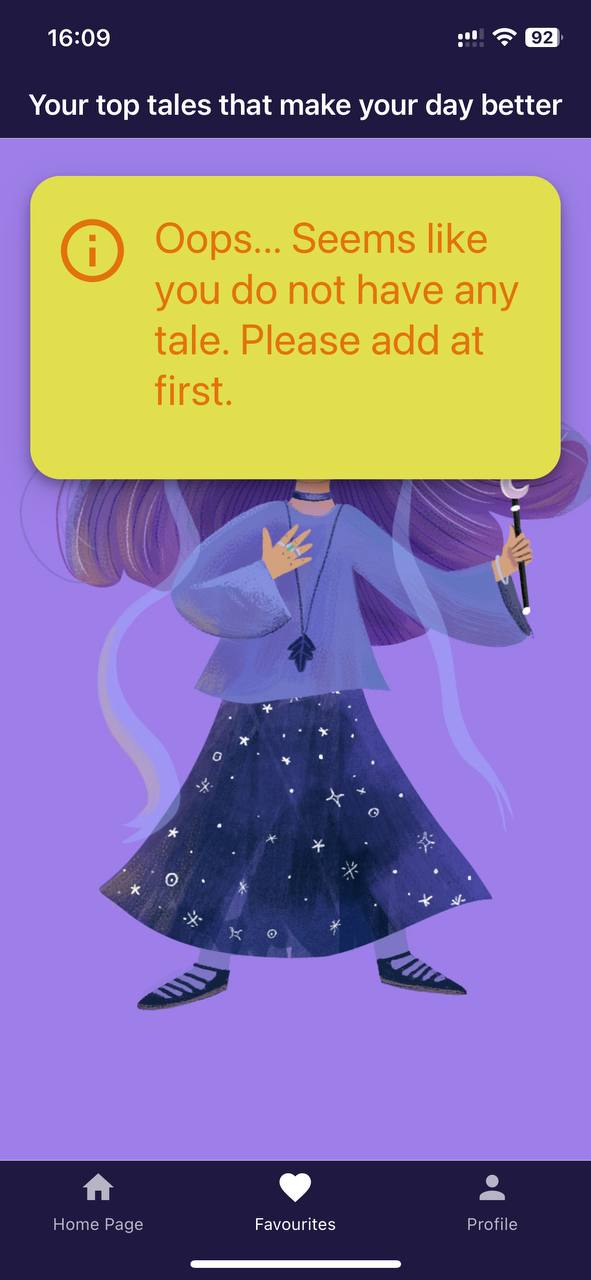
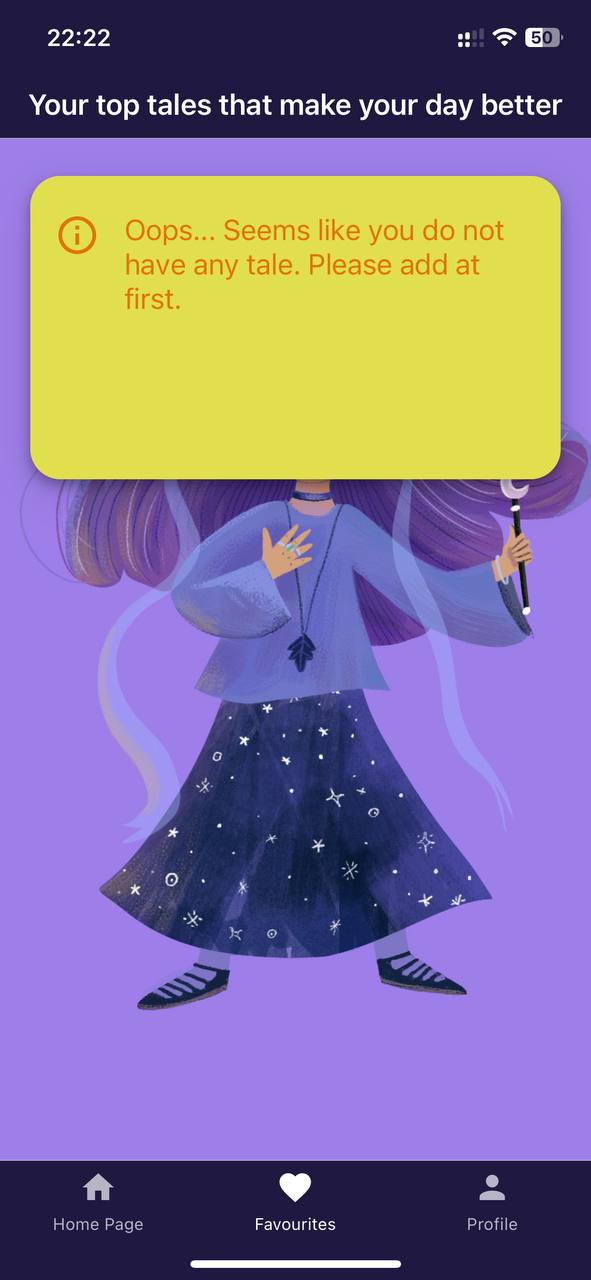
Change font size for empty tales, change font size for settings list

Changed region(s): [[0.0914, 0.1562, 0.8832, 0.3125], [0.0914, 0.0, 0.1827, 0.0625], [0.9137, 0.0, 0.9442, 0.0625]]

diff --git a/components/Account/SettingItem.js b/components/Account/SettingItem.js
@@ -13,7 +13,7 @@ function SettingItem({ title, pressHandler, icon }) {
 				<List.Icon color={theme.colors.secondary} icon="arrow-right" />
 			)}
 			style={[styles.settingItemBox, { backgroundColor: theme.colors.primary }]}
-			titleStyle={{ color: theme.colors.secondary }}
+			titleStyle={[styles.title, { color: theme.colors.secondary }]}
 		/>
 	);
 }
@@ -23,8 +23,11 @@ export default SettingItem;
 const styles = StyleSheet.create({
 	settingItemBox: {
 		padding: 20,
-		borderRadius: 15,
+		borderRadius: 25,
 		marginVertical: 10,
 		marginHorizontal: 10,
+	},
+	title: {
+		paddingVertical: 15,
 	},
 });

diff --git a/screens/AllTalesScreen.js b/screens/AllTalesScreen.js
@@ -12,7 +12,7 @@ import { AuthContext } from "../store/auth-context";
 import Background from "../components/ui/Background";
 import Loading from "../components/ui/Loading";
 // constants
-import { locale } from "../constants/locale";
+import { locale, enums } from "../constants/locale";
 
 function AllTalesScreen() {
 	const talesCtx = useContext(TalesContext);

diff --git a/components/Tales/TalesList.js b/components/Tales/TalesList.js
@@ -40,8 +40,8 @@ function TalesList({ allTales, horizontal = false }) {
 						message={locale.talesEmpty}
 						type={enums.alertTypes.INFO}
 						width="100%"
-						contentSize={25}
-						iconSize={50}
+						contentSize={17}
+						iconSize={30}
 					/>
 				</View>
 			)}
